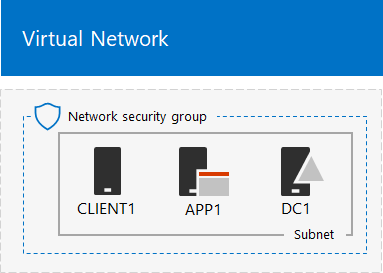
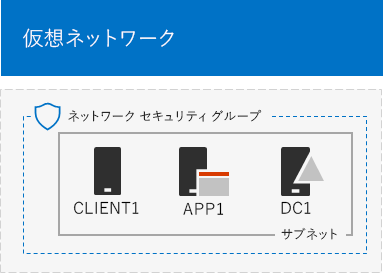
commit translated contents

diff --git a/microsoft-365/compliance/view-label-activity-for-documents.md b/microsoft-365/compliance/view-label-activity-for-documents.md
@@ -1,24 +1,26 @@
 ---
 title: ドキュメントのラベル アクティビティを表示する
-ms.author: stephow
-author: stephow-MSFT
+ms.author: laurawi
+author: laurawi
 manager: laurawi
 ms.date: 5/9/2018
 audience: Admin
 ms.topic: article
 ms.service: O365-seccomp
-ms.collection: M365-security-compliance
+ms.collection:
+- M365-security-compliance
+- SPO_Content
 localization_priority: Priority
 search.appverid:
 - MOE150
 - MET150
 description: Office 365 セキュリティ&amp;コンプライアンス センターのラベル アクティビティ エクスプローラーを使用すると、過去 30 日間の SharePoint および OneDrive for Business のすべてコンテンツのラベル アクティビティをすばやく検索して表示することができます。リアルタイム データが表示され、テナントで生じている事柄を明確に把握できます。
-ms.openlocfilehash: 6b68c82e364432107d616c5184959cd879cdcb9a
-ms.sourcegitcommit: 1162d676b036449ea4220de8a6642165190e3398
+ms.openlocfilehash: 99e3f461ed1ff38b2f204a2823299a3c441c995f
+ms.sourcegitcommit: e4f2f06daa264b8b476813a2dfe80cffb59f968f
 ms.translationtype: HT
 ms.contentlocale: ja-JP
-ms.lasthandoff: 09/20/2019
-ms.locfileid: "37086461"
+ms.lasthandoff: 11/13/2019
+ms.locfileid: "38710090"
 ---
 # <a name="view-label-activity-for-documents"></a>ドキュメントのラベル アクティビティを表示する
 
@@ -36,7 +38,7 @@ ms.locfileid: "37086461"
     
 - 各ドキュメントだけでなくフォルダーのラベル アクティビティも表示。今後は、ラベルが付けられたフォルダーの中のファイル数が表示される予定。
     
-ラベル アクティビティ エクスプローラーにアクセスするには、セキュリティ&amp;コンプライアンス センター>**[データ ガバナンス]** > **[ラベル アクティビティ エクスプローラー]** の順に移動します。
+ラベル アクティビティ エクスプローラーにアクセスするには、セキュリティ &amp; コンプライアンス センターで **[情報ガバナンス]** > **[ラベル アクティビティ エクスプローラー]** の順に移動します。
   
 なお、ラベル アクティビティ エクスプローラーには、Office 365 Enterprise E5 サブスクリプションが必要となります。
   

diff --git a/microsoft-365/enterprise/lightweight-base-configuration-microsoft-365-enterprise.md b/microsoft-365/enterprise/lightweight-base-configuration-microsoft-365-enterprise.md
@@ -15,12 +15,12 @@ ms.custom:
 - Ent_TLGs
 ms.assetid: 6f916a77-301c-4be2-b407-6cec4d80df76
 description: このテスト ラボ ガイドを使用して、Microsoft 365 Enterprise をテストするための軽量なテスト環境を作成します。
-ms.openlocfilehash: ff9577fb461429fd8d4628dc0eea6b8a35664fbc
-ms.sourcegitcommit: 9ee873c6a2f738a0c99921e036894b646742e706
+ms.openlocfilehash: fce612000fac79fe9552fa9882d6c48fdacda1c2
+ms.sourcegitcommit: ea48c86c727dcd9d4b3b970b14a4260337f158f9
 ms.translationtype: HT
 ms.contentlocale: ja-JP
-ms.lasthandoff: 11/15/2019
-ms.locfileid: "38672743"
+ms.lasthandoff: 11/18/2019
+ms.locfileid: "38694124"
 ---
 # <a name="the-lightweight-base-configuration"></a>軽量な基本構成
 
@@ -285,7 +285,7 @@ Set-AzVirtualNetworkSubnetConfig -VirtualNetwork $vnet -Name Corpnet -AddressPre
 $vnet | Set-AzVirtualNetwork
 $pip=New-AzPublicIpAddress -Name WIN10-PIP -ResourceGroupName $rgName -Location $locName -AllocationMethod Dynamic
 $nic=New-AzNetworkInterface -Name WIN10-NIC -ResourceGroupName $rgName -Location $locName -SubnetId $vnet.Subnets[0].Id -PublicIpAddressId $pip.Id
-$vm=New-AzVMConfig -VMName WIN10 -VMSize Standard_D1_V2
+$vm=New-AzVMConfig -VMName WIN10 -VMSize Standard_A2_V2
 $cred=Get-Credential -Message "Type the name and password of the local administrator account for WIN10."
 $vm=Set-AzVMOperatingSystem -VM $vm -Windows -ComputerName WIN10 -Credential $cred -ProvisionVMAgent -EnableAutoUpdate
 $vm=Set-AzVMSourceImage -VM $vm -PublisherName MicrosoftWindowsDesktop -Offer Windows-10 -Skus RS3-Pro -Version "latest"

diff --git a/microsoft-365/enterprise/simulated-ent-base-configuration-microsoft-365-enterprise.md b/microsoft-365/enterprise/simulated-ent-base-configuration-microsoft-365-enterprise.md
@@ -15,12 +15,12 @@ ms.custom:
 - Ent_TLGs
 ms.assetid: 6f916a77-301c-4be2-b407-6cec4d80df76
 description: このテスト ラボ ガイドを使用して、Microsoft 365 Enterprise 用にシミュレートされたエンタープライズ テスト環境を作成します。
-ms.openlocfilehash: bbb3bc2fc7d2abab395dc50481f1955382eca144
-ms.sourcegitcommit: ea48c86c727dcd9d4b3b970b14a4260337f158f9
+ms.openlocfilehash: 98eb336a0f63f47b4b79de44c46fcd81f1d9c9f6
+ms.sourcegitcommit: 2bdd7b535a7d2a4896df130b7047f8c85f4d47b4
 ms.translationtype: HT
 ms.contentlocale: ja-JP
-ms.lasthandoff: 11/18/2019
-ms.locfileid: "38694134"
+ms.lasthandoff: 11/19/2019
+ms.locfileid: "38711881"
 ---
 # <a name="the-simulated-enterprise-base-configuration"></a>シミュレートされたエンタープライズ基本構成
 
@@ -213,7 +213,7 @@ New-ADUser -SamAccountName User1 -AccountPassword (read-host "Set user password"
   
 ```powershell
 $yourDomain="<your public domain>"
-$domainName = "testlab"+$yourDomain
+$domainName = "testlab."+$yourDomain
 $userName="user1@" + $domainName
 $userSID=(New-Object System.Security.Principal.NTAccount($userName)).Translate([System.Security.Principal.SecurityIdentifier]).Value
 $groupNames=@("Domain Admins","Enterprise Admins","Schema Admins")
